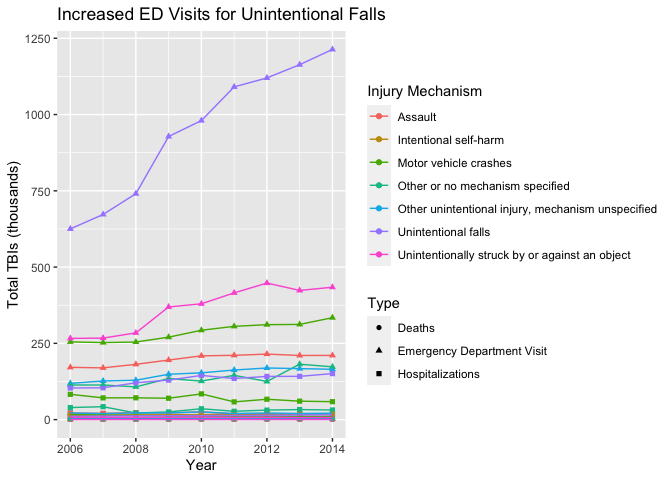
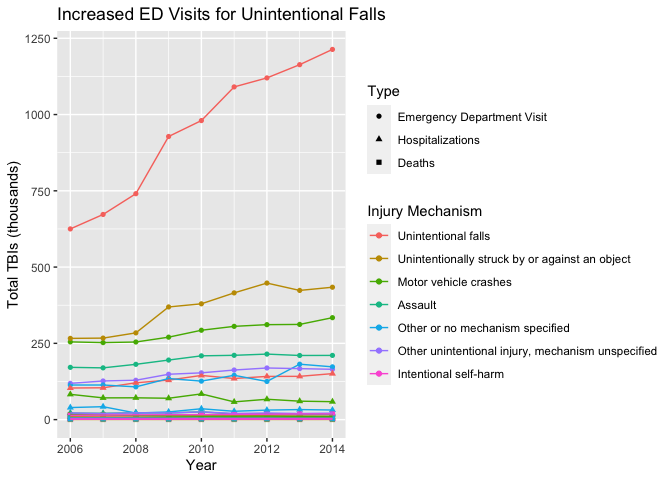
Changed order of factors

diff --git a/challenges/project1.md b/challenges/project1.md
@@ -128,6 +128,18 @@ tbi_summary <-
     ## `summarise()` regrouping output by 'year' (override with `.groups` argument)
 
 ``` r
+tbi_summary$injury_mechanism <- 
+  factor(
+    tbi_summary$injury_mechanism,
+    levels = c(
+      "Unintentional falls",
+      "Unintentionally struck by or against an object",
+      "Motor vehicle crashes",
+      "Assault",
+      "Other or no mechanism specified",
+      "Other unintentional injury, mechanism unspecified",
+      "Intentional self-harm"))
+
 tbi_summary %>%
   ggplot(mapping = aes(x = year, y = total, color = injury_mechanism)) +
   geom_point() +
@@ -166,6 +178,48 @@ tbi_summary %>%
 <!-- end list -->
 
 ``` r
+tbi_year %>%
+  distinct(injury_mechanism)
+```
+
+    ## # A tibble: 8 x 1
+    ##   injury_mechanism                                 
+    ##   <chr>                                            
+    ## 1 Motor vehicle crashes                            
+    ## 2 Unintentional falls                              
+    ## 3 Unintentionally struck by or against an object   
+    ## 4 Other unintentional injury, mechanism unspecified
+    ## 5 Intentional self-harm                            
+    ## 6 Assault                                          
+    ## 7 Other or no mechanism specified                  
+    ## 8 Total
+
+``` r
+tbi_year$type <- 
+  factor(
+    tbi_year$type,
+    levels = c(
+      "Emergency Department Visit",
+      "Hospitalizations",
+      "Deaths"
+    ))
+levels(tbi_year$injury_mechanism)
+```
+
+    ## NULL
+
+``` r
+tbi_year$injury_mechanism <- 
+  factor(
+    tbi_year$injury_mechanism,
+    levels = c(
+      "Unintentional falls",
+      "Unintentionally struck by or against an object",
+      "Motor vehicle crashes",
+      "Assault",
+      "Other or no mechanism specified",
+      "Other unintentional injury, mechanism unspecified",
+      "Intentional self-harm"))
 tbi_year %>%
   filter(injury_mechanism != "Total") %>%
   ggplot(mapping = aes(x = year, y = number_est/1000, color = injury_mechanism, shape = type)) +
